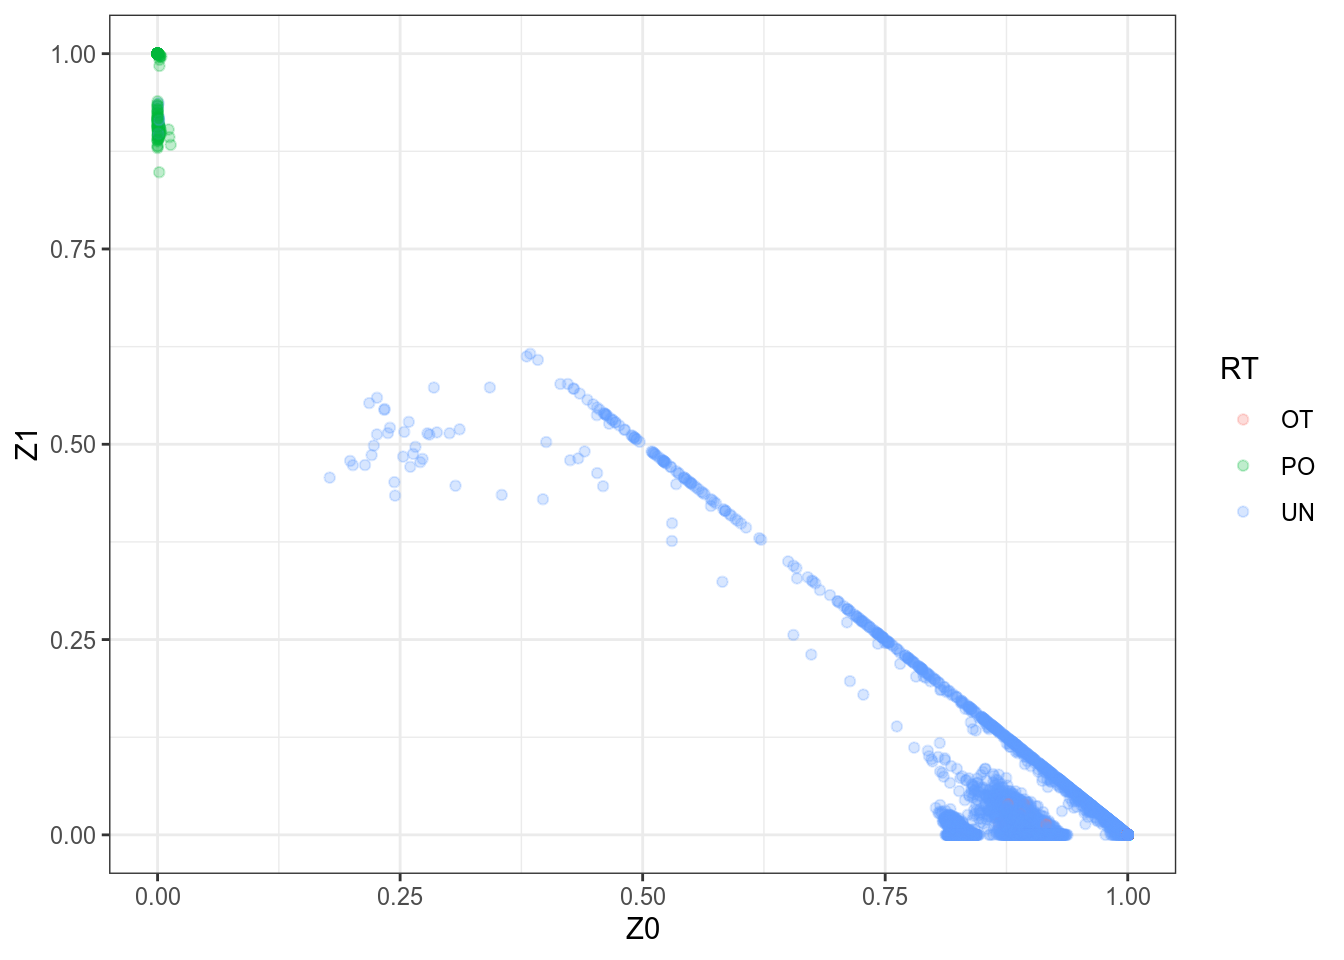
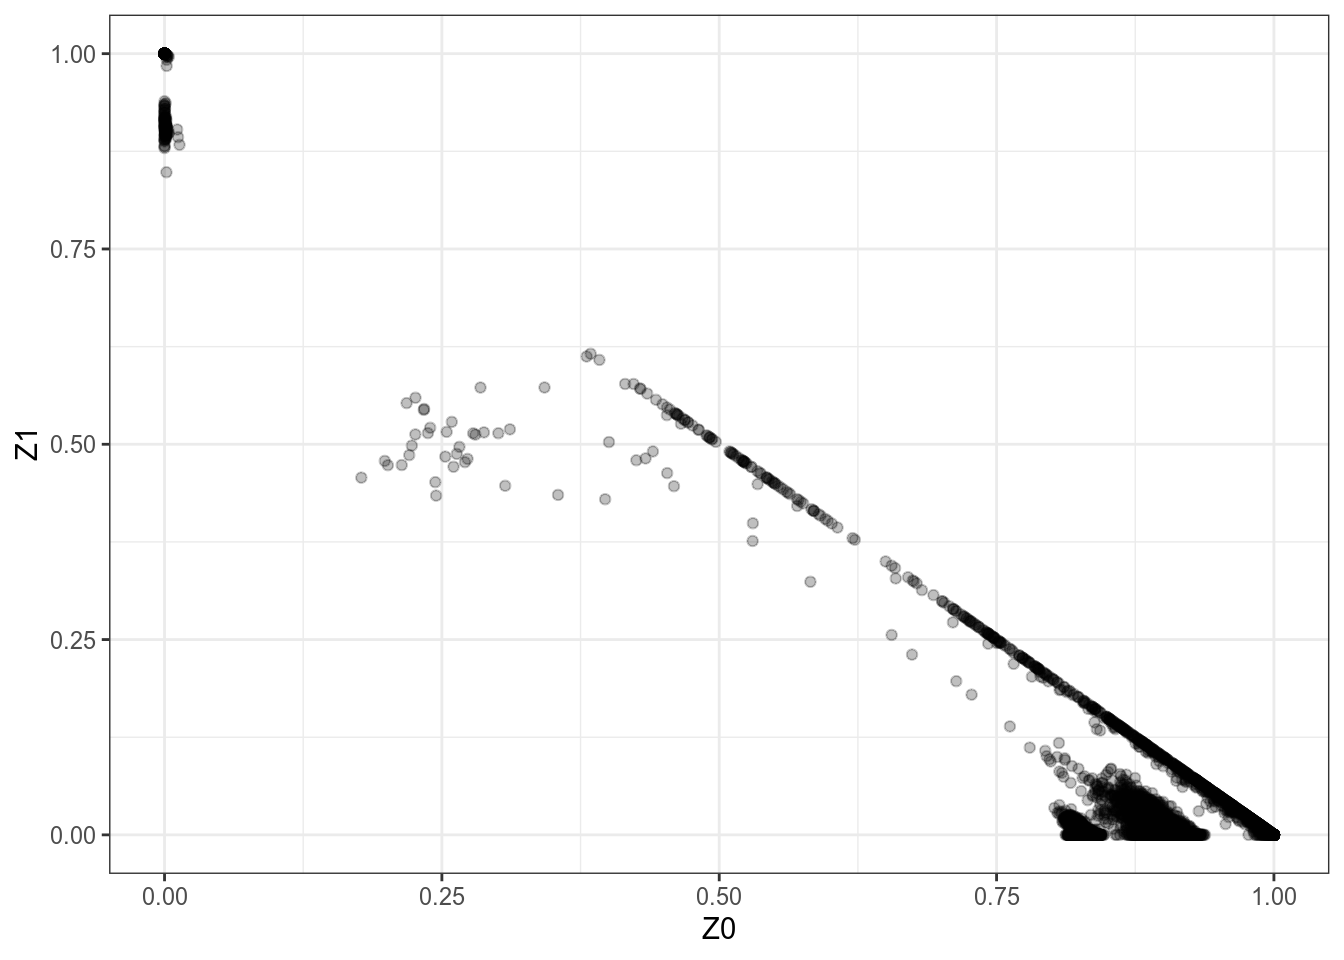
Build site.

diff --git a/docs/relatedness-filtering.html b/docs/relatedness-filtering.html
@@ -413,7 +413,7 @@ div.tocify {
 <div class="tab-content">
 <div id="summary" class="tab-pane fade in active">
 <p>
-<strong>Last updated:</strong> 2020-11-17
+<strong>Last updated:</strong> 2020-12-13
 </p>
 <p>
 <strong>Checks:</strong> <span class="glyphicon glyphicon-ok text-success" aria-hidden="true"></span> 7 <span class="glyphicon glyphicon-exclamation-sign text-danger" aria-hidden="true"></span> 0
@@ -504,16 +504,16 @@ This reproducible <a href="http://rmarkdown.rstudio.com">R Markdown</a> analysis
 <div class="panel panel-default">
 <div class="panel-heading">
 <p class="panel-title">
-<a data-toggle="collapse" data-parent="#workflowr-checks" href="#strongRepositoryversionstrongahrefhttpsgithubcomhwittichGWASQCtreead5a512aba99c8b56acaeac84f726f0d7579edadtargetblankad5a512a"> <span class="glyphicon glyphicon-ok text-success" aria-hidden="true"></span> <strong>Repository version:</strong> <a href="https://github.com/hwittich/GWAS_QC/tree/ad5a512aba99c8b56acaeac84f726f0d7579edad" target="_blank">ad5a512</a> </a>
+<a data-toggle="collapse" data-parent="#workflowr-checks" href="#strongRepositoryversionstrongahrefhttpsgithubcomhwittichGWASQCtree72f56c0dadaccdf3edcce8a78d6628963577f392targetblank72f56c0a"> <span class="glyphicon glyphicon-ok text-success" aria-hidden="true"></span> <strong>Repository version:</strong> <a href="https://github.com/hwittich/GWAS_QC/tree/72f56c0dadaccdf3edcce8a78d6628963577f392" target="_blank">72f56c0</a> </a>
 </p>
 </div>
[2 lines of base64/hex data omitted]
 <div class="panel-body">
 <p>
 Great! You are using Git for version control. Tracking code development and connecting the code version to the results is critical for reproducibility.
 </p>
 <p>
-The results in this page were generated with repository version <a href="https://github.com/hwittich/GWAS_QC/tree/ad5a512aba99c8b56acaeac84f726f0d7579edad" target="_blank">ad5a512</a>. See the <em>Past versions</em> tab to see a history of the changes made to the R Markdown and HTML files.
+The results in this page were generated with repository version <a href="https://github.com/hwittich/GWAS_QC/tree/72f56c0dadaccdf3edcce8a78d6628963577f392" target="_blank">72f56c0</a>. See the <em>Past versions</em> tab to see a history of the changes made to the R Markdown and HTML files.
 </p>
 <p>
 Note that you need to be careful to ensure that all relevant files for the analysis have been committed to Git prior to generating the results (you can use <code>wflow_publish</code> or <code>wflow_git_commit</code>). workflowr only checks the R Markdown file, but you know if there are other scripts or data files that it depends on. Below is the status of the Git repository when the results were generated:
@@ -522,6 +522,7 @@ Note that you need to be careful to ensure that all relevant files for the analy
 Ignored files:
     Ignored:    .Rhistory
     Ignored:    .Rproj.user/
+    Ignored:    analysis/figure/
 
 </code></pre>
 <p>
@@ -560,6 +561,40 @@ Message
 </tr>
 </thead>
 <tbody>
+<tr>
+<td>
+Rmd
+</td>
+<td>
+<a href="https://github.com/hwittich/GWAS_QC/blob/72f56c0dadaccdf3edcce8a78d6628963577f392/analysis/relatedness-filtering.Rmd" target="_blank">72f56c0</a>
+</td>
+<td>
+Henry Wittich
+</td>
+<td>
+2020-12-13
+</td>
+<td>
+Created IBD plots for each population group
+</td>
+</tr>
+<tr>
+<td>
+html
+</td>
+<td>
+<a href="https://rawcdn.githack.com/hwittich/GWAS_QC/af6a2e6a71991d9a849891b43edc2a5eaaae3106/docs/relatedness-filtering.html" target="_blank">af6a2e6</a>
+</td>
+<td>
+Henry Wittich
+</td>
+<td>
+2020-11-17
+</td>
+<td>
+Build site.
+</td>
+</tr>
 <tr>
 <td>
 Rmd
@@ -660,7 +695,7 @@ Starting the relatedness filtering step
 <h1>1 Create a pruned list of SNP IDs</h1>
 <p>Given the size of our dataset, calculating % identity by descent between every individual in the dataset using every SNP would be time-consuming and ultimately inefficient. According to Turner et al., a “dataset only 100,000 markers will yield stable estimates of kinship coefficients.” Furthermore, the IBD calculation assumes there is no LD. In this first step of relatedness filtering, we will generate a pruned set of SNPs that are in linkage equilibrium. This serves two purpose: first, it creates a smaller set up SNPs to calculate IBD with, and it also sets us up for LD pruning.</p>
 <pre><code>plink --bed ~/gwasqc/output/11-8-2020/missingness_hwe_steps/05filtered_HWE.bed --bim ~/gwasqc/output/11-8-2020/missingness_hwe_steps/05filtered_HWE.bim --fam ~/gwasqc/output/11-8-2020/missingness_hwe_steps/05filtered_HWE.fam --indep-pairwise 50 5 0.3 --out ~/gwasqc/output/11-16-2020/relatedness_steps/01LD_prune_list</code></pre>
-<p>This command uses the HWE filtered list of SNPs and prunes them by linkage disequilibirum. the –indep-pairwise flag takes three parameters: the window size, the step size, and the r^2 threshold. In this case, plink looks at 50 variants at a time, moving through the dataset 5 variants at a time, and calculates the squared correlation between pairs of variants; if a pair of variants has an r^2 higher than the threshold, they are pruned from the window. In other words, for all SNPs in linkage disequilibrium with each other, all but one are pruned out of the dataset. SNPs that are in linkage equilibirum with each other are written to the prune.in file while those that are excluded are written to the prune.out file:<br />
+<p>This command uses the HWE filtered list of SNPs and prunes them by linkage disequilibirum. the –indep-pairwise flag takes three parameters: the window size, the step size, and the r^2 threshold. In this case, plink looks at 50 variants at a time and calculates the squared correlation between pairs of variants; if a pair of variants has an r^2 higher than the threshold, they are pruned from the window. Plonk then shifts the window by 5 variants and repeats the calculations. In other words, for all SNPs in linkage disequilibrium with each other, all but one are pruned out of the dataset. SNPs that are in linkage equilibirum with each other are written to the prune.in file while those that are excluded are written to the prune.out file:<br />
 – 01LD_prune_list.log<br />
 – 01LD_prune_list.prune.in<br />
 – 01LD_prune_list.prune.out</p>
@@ -672,17 +707,182 @@ Starting the relatedness filtering step
 <p>Producing the following output files:<br />
 – 02relatedness.genome.log<br />
 – 02relatedness.genome.genome<br />
-First, the –extract flag uses the list of SNP IDs generated in step one to pull all SNPs that are in linkage equilibirum out of the bed/bim/fam files. The –genome flag performs an IBD calculation for each unique pair of individuals in the dataset. This calculation produces the Z0, Z1, and Z2 estimates, which represent the proportion of loci where the two individuals share zero, one, or two alleles identical by descent. These values can be used to infer the relationship between the two individuals: <img src="assets/IBD_relationships.png" alt="Possible relationships" /> Thus, by plotting the Z0 versus Z1 for every pair of individuals, we get a good snapshot of the relationships in our sample population. This is called an IBD plot. Here is the IBD plot for all individuals in the dataset.</p>
+First, the –extract flag uses the list of SNP IDs generated in step one to pull all SNPs that are in linkage equilibirum out of the bed/bim/fam files. The –genome flag performs an IBD calculation for each unique pair of individuals in the dataset. This calculation produces the Z0, Z1, and Z2 estimates, which represent the proportion of loci where the two individuals share zero, one, or two alleles identical by descent. These values can be used to infer the relationship between the two individuals: <img src="assets/IBD_relationships.png" alt="Possible relationships" /></p>
+<p>Thus, by plotting the Z0 versus Z1 for every pair of individuals, we get a good snapshot of the relationships in our sample population. This is called an IBD plot. Here is the IBD plot for all individuals in the dataset.</p>
 <pre class="r"><code>library(&quot;ggplot2&quot;)
 ibd &lt;- read.table(&quot;~/mount/gwasqc/output/11-16-2020/relatedness_steps/02relatedness.genome.genome&quot;,header=T)
-#Color code each point by the relationship type given the fam and ped filefile
-ggplot(data=ibd,aes(x=Z0,y=Z1,color=RT))+geom_point(alpha=1/4)+theme_bw()</code></pre>
-<p><img src="figure/relatedness-filtering.Rmd/unnamed-chunk-1-1.png" width="672" style="display: block; margin: auto;" /> The relationship codes are as follows:<br />
-FS: full siblings<br />
-HS: half siblings<br />
-PO: parent-offspring<br />
-OT: other<br />
-UN: ?? (not stated in plink documentation, presumably is unrelated?)</p>
+ggplot(data=ibd,aes(x=Z0,y=Z1))+geom_point(alpha=1/4)+theme_bw()</code></pre>
+<p><img src="figure/relatedness-filtering.Rmd/unnamed-chunk-1-1.png" width="672" style="display: block; margin: auto;" /></p>
+<p>
+<button type="button" class="btn btn-default btn-xs btn-workflowr btn-workflowr-fig" data-toggle="collapse" data-target="#fig-unnamed-chunk-1-1">
+Past versions of unnamed-chunk-1-1.png
+</button>
+</p>
+<div id="fig-unnamed-chunk-1-1" class="collapse">
+<div class="table-responsive">
+<table class="table table-condensed table-hover">
+<thead>
+<tr>
+<th>
+Version
+</th>
+<th>
+Author
+</th>
+<th>
+Date
+</th>
+</tr>
+</thead>
+<tbody>
+<tr>
+<td>
+<a href="https://github.com/hwittich/GWAS_QC/blob/af6a2e6a71991d9a849891b43edc2a5eaaae3106/docs/figure/relatedness-filtering.Rmd/unnamed-chunk-1-1.png" target="_blank">af6a2e6</a>
+</td>
+<td>
+Henry Wittich
+</td>
+<td>
+2020-11-17
+</td>
+</tr>
+</tbody>
+</table>
+</div>
+</div>
+<p>Looking at the plot, it is clear that there are a few parent-child relationships in the dataset, as well as several siblings and cousins. Looking at the bottom right corner of the plot, there is a strange-looking gap in the cluster of non-related pairs. It is possible this is the result of the HapMap3 dataset being comprised of several populations from geographically distinct locations, resulting in strange relatedness estimates.</p>
+</div>
+<div id="ibd-separated-by-population" class="section level1">
+<h1>3 IBD separated by population</h1>
+<p>We are working with HapMap 3 data, which contains 1,301 samples from 11 different populations. The phase_3_samples.doc <a href="ftp://ftp.ncbi.nlm.nih.gov/hapmap/genotypes/hapmap3/plink_format/draft_2">stored with the HapMap data</a> lists the 11 populations and their corresponding 3-character labels, which are used in the relationships_w_pops_121708.txt file to identify samples by their population. For our purposes, we will group these 11 populations in 6 main groups:<br />
+– African: ASW, LWK, MKK, and YRI<br />
+– East Asian: CHB, CHD, and JPT<br />
+– Northwestern European: CEU<br />
+– Gujarati Indian: GIH<br />
+– Mexican: MEX<br />
+– Toscan: TSI</p>
+<div id="extracting-sample-ids-by-population" class="section level2">
+<h2>Extracting sample IDs by population</h2>
+<p>Next, we must create a list of sample IDs for each of the 6 population groups that we can use to pull out their data and generate IBD plots. We can accomplish this with the UNIX grep command:</p>
+<pre><code>#Pulling out all samples from the Gujarati Indian population
+grep &quot;GIH&quot; relationships_w_pops_121708.txt &gt; ~/gwasqc/output/12-13-2020/separating_populations/gujarati_indian_IDs.txt</code></pre>
+<p>The grep function takes 2 inputs: a string to search for and a file to search through. It searches through the file line by line and returns every line that contains the string. The “&gt;” character writes grep’s output to the file specified. With this command, I pulled out all of the samples in the dataset from the Gujarati Indian population and wrote their IDs to the file gujarati_indian_IDs.txt.</p>
+<p>Let’s do the same for every other population group:</p>
+<pre><code>#Pulling out all samples from African populations
+#When searching for multiple terms, the syntax is as follows: &#39;word1\|word2&#39;
+grep &#39;ASW\|LWK\|MKK\|YRI&#39; relationships_w_pops_121708.txt &gt; ~/gwasqc/output/12-13-2020/separating_populations/african_IDs.txt
+
+#Pulling out all samples from East Asian populations
+grep &#39;CHB\|CHD\|JPT&#39; relationships_w_pops_121708.txt &gt; ~/gwasqc/output/12-13-2020/separating_populations/east_asian_IDs.txt
+
+#Pulling out all samples from the Northwestern European population
+grep &quot;CEU&quot; relationships_w_pops_121708.txt &gt; ~/gwasqc/output/12-13-2020/separating_populations/northwestern_european_IDs.txt
+
+#Pulling out all samples from the Mexican population
+grep &quot;MEX&quot; relationships_w_pops_121708.txt &gt; ~/gwasqc/output/12-13-2020/separating_populations/mexican_IDs.txt
+
+#Pulling out all samples from the Toscan population
+grep &quot;TSI&quot; relationships_w_pops_121708.txt &gt; ~/gwasqc/output/12-13-2020/separating_populations/toscan_IDs.txt</code></pre>
+</div>
+<div id="creating-new-bfiles-by-population" class="section level2">
+<h2>Creating new bfiles by population</h2>
+<p>Using these lists of IDs, we can then extract the data for each sample and generate new bfiles, separated by population. Using the –keep and –make-bed plink commands, we can use our missingness- and hwe-filtered bfiles to make new bfiles that only keep individuals from the same population group.</p>
+<pre><code>#Generating Gujarati Indian bfiles
+plink --bfile ~/gwasqc/output/11-8-2020/missingness_hwe_steps/05filtered_HWE --keep ~/gwasqc/output/12-13-2020/separating_populations/gujarati_indian_IDs.txt --make-bed --out ~/gwasqc/output/12-13-2020/separating_populations/05gujarati_indian_filtered_HWE
+
+#Generating African bfiles
+plink --bfile ~/gwasqc/output/11-8-2020/missingness_hwe_steps/05filtered_HWE --keep ~/gwasqc/output/12-13-2020/separating_populations/african_IDs.txt --make-bed --out ~/gwasqc/output/12-13-2020/separating_populations/05african_filtered_HWE
+
+#Generating East Asian bfiles
+plink --bfile ~/gwasqc/output/11-8-2020/missingness_hwe_steps/05filtered_HWE --keep ~/gwasqc/output/12-13-2020/separating_populations/east_asian_IDs.txt --make-bed --out ~/gwasqc/output/12-13-2020/separating_populations/05east_asian_filtered_HWE
+
+#Generating Northwestern European bfiles
+plink --bfile ~/gwasqc/output/11-8-2020/missingness_hwe_steps/05filtered_HWE --keep ~/gwasqc/output/12-13-2020/separating_populations/northwestern_european_IDs.txt --make-bed --out ~/gwasqc/output/12-13-2020/separating_populations/05northwestern_european_filtered_HWE
+
+#Generating Mexican bfiles
+plink --bfile ~/gwasqc/output/11-8-2020/missingness_hwe_steps/05filtered_HWE --keep ~/gwasqc/output/12-13-2020/separating_populations/mexican_IDs.txt --make-bed --out ~/gwasqc/output/12-13-2020/separating_populations/05mexican_filtered_HWE
+
+#Generating Toscan bfiles
+plink --bfile ~/gwasqc/output/11-8-2020/missingness_hwe_steps/05filtered_HWE --keep ~/gwasqc/output/12-13-2020/separating_populations/toscan_IDs.txt --make-bed --out ~/gwasqc/output/12-13-2020/separating_populations/05toscan_filtered_HWE</code></pre>
+</div>
+<div id="ld-pruning-ibd-calculation-and-ibd-plots-by-population" class="section level2">
+<h2>LD pruning, IBD calculation, and IBD plots by population</h2>
+<div id="gujarati-indian" class="section level3">
+<h3>Gujarati Indian</h3>
+<pre><code>#LD Pruning
+plink --bed ~/gwasqc/output/12-13-2020/separating_populations/05gujarati_indian_filtered_HWE.bed --bim ~/gwasqc/output/12-13-2020/separating_populations/05gujarati_indian_filtered_HWE.bim --fam ~/gwasqc/output/12-13-2020/separating_populations/05gujarati_indian_filtered_HWE.fam --indep-pairwise 50 5 0.3 --out ~/gwasqc/output/12-13-2020/relatedness_steps/01gujarati_indian_LD_prune_list
+
+#IBD Calculation
+plink --bed ~/gwasqc/output/12-13-2020/separating_populations/05gujarati_indian_filtered_HWE.bed --bim ~/gwasqc/output/12-13-2020/separating_populations/05gujarati_indian_filtered_HWE.bim --fam ~/gwasqc/output/12-13-2020/separating_populations/05gujarati_indian_filtered_HWE.fam --extract ~/gwasqc/output/12-13-2020/relatedness_steps/01gujarati_indian_LD_prune_list.prune.in --genome --out ~/gwasqc/output/12-13-2020/relatedness_steps/02gujarati_indian_relatedness</code></pre>
+<pre class="r"><code>#Generating IBD Plot
+gujarati_indian_ibd &lt;- read.table(&quot;~/mount/gwasqc/output/12-13-2020/relatedness_steps/02gujarati_indian_relatedness.genome&quot;,header=T)
+ggplot(data=gujarati_indian_ibd,aes(x=Z0,y=Z1))+geom_point(alpha=1/4)+theme_bw()+xlim(0,1)+ylim(0,1)</code></pre>
+<p><img src="figure/relatedness-filtering.Rmd/unnamed-chunk-2-1.png" width="672" style="display: block; margin: auto;" /></p>
+</div>
+<div id="african" class="section level3">
+<h3>African</h3>
+<pre><code>#LD Pruning
+plink --bed ~/gwasqc/output/12-13-2020/separating_populations/05african_filtered_HWE.bed --bim ~/gwasqc/output/12-13-2020/separating_populations/05african_filtered_HWE.bim --fam ~/gwasqc/output/12-13-2020/separating_populations/05african_filtered_HWE.fam --indep-pairwise 50 5 0.3 --out ~/gwasqc/output/12-13-2020/relatedness_steps/01african_LD_prune_list
+
+#IBD Calculation
+plink --bed ~/gwasqc/output/12-13-2020/separating_populations/05african_filtered_HWE.bed --bim ~/gwasqc/output/12-13-2020/separating_populations/05african_filtered_HWE.bim --fam ~/gwasqc/output/12-13-2020/separating_populations/05african_filtered_HWE.fam --extract ~/gwasqc/output/12-13-2020/relatedness_steps/01african_LD_prune_list.prune.in --genome --out ~/gwasqc/output/12-13-2020/relatedness_steps/02african_relatedness</code></pre>
+<pre class="r"><code>#Generating IBD Plot
+african_ibd &lt;- read.table(&quot;~/mount/gwasqc/output/12-13-2020/relatedness_steps/02african_relatedness.genome&quot;,header=T)
+ggplot(data=african_ibd,aes(x=Z0,y=Z1))+geom_point(alpha=1/4)+theme_bw()+xlim(0,1)+ylim(0,1)</code></pre>
+<p><img src="figure/relatedness-filtering.Rmd/unnamed-chunk-3-1.png" width="672" style="display: block; margin: auto;" /></p>
+</div>
+<div id="east-asian" class="section level3">
+<h3>East Asian</h3>
+<pre><code>#LD Pruning
+plink --bed ~/gwasqc/output/12-13-2020/separating_populations/05east_asian_filtered_HWE.bed --bim ~/gwasqc/output/12-13-2020/separating_populations/05east_asian_filtered_HWE.bim --fam ~/gwasqc/output/12-13-2020/separating_populations/05east_asian_filtered_HWE.fam --indep-pairwise 50 5 0.3 --out ~/gwasqc/output/12-13-2020/relatedness_steps/01east_asian_LD_prune_list
+
+#IBD Calculation
+plink --bed ~/gwasqc/output/12-13-2020/separating_populations/05east_asian_filtered_HWE.bed --bim ~/gwasqc/output/12-13-2020/separating_populations/05east_asian_filtered_HWE.bim --fam ~/gwasqc/output/12-13-2020/separating_populations/05east_asian_filtered_HWE.fam --extract ~/gwasqc/output/12-13-2020/relatedness_steps/01east_asian_LD_prune_list.prune.in --genome --out ~/gwasqc/output/12-13-2020/relatedness_steps/02east_asian_relatedness</code></pre>
+<pre class="r"><code>#Generating IBD Plot
+east_asian_ibd &lt;- read.table(&quot;~/mount/gwasqc/output/12-13-2020/relatedness_steps/02east_asian_relatedness.genome&quot;,header=T)
+ggplot(data=east_asian_ibd,aes(x=Z0,y=Z1))+geom_point(alpha=1/4)+theme_bw()+xlim(0,1)+ylim(0,1)</code></pre>
+<p><img src="figure/relatedness-filtering.Rmd/unnamed-chunk-4-1.png" width="672" style="display: block; margin: auto;" /></p>
+</div>
+<div id="northwestern-european" class="section level3">
+<h3>Northwestern European</h3>
+<pre><code>#LD Pruning
+plink --bed ~/gwasqc/output/12-13-2020/separating_populations/05northwestern_european_filtered_HWE.bed --bim ~/gwasqc/output/12-13-2020/separating_populations/05northwestern_european_filtered_HWE.bim --fam ~/gwasqc/output/12-13-2020/separating_populations/05northwestern_european_filtered_HWE.fam --indep-pairwise 50 5 0.3 --out ~/gwasqc/output/12-13-2020/relatedness_steps/01northwestern_european_LD_prune_list
+
+#IBD Calculation
+plink --bed ~/gwasqc/output/12-13-2020/separating_populations/05northwestern_european_filtered_HWE.bed --bim ~/gwasqc/output/12-13-2020/separating_populations/05northwestern_european_filtered_HWE.bim --fam ~/gwasqc/output/12-13-2020/separating_populations/05northwestern_european_filtered_HWE.fam --extract ~/gwasqc/output/12-13-2020/relatedness_steps/01northwestern_european_LD_prune_list.prune.in --genome --out ~/gwasqc/output/12-13-2020/relatedness_steps/02northwestern_european_relatedness</code></pre>
+<pre class="r"><code>#Generating IBD Plot
+northwestern_european_ibd &lt;- read.table(&quot;~/mount/gwasqc/output/12-13-2020/relatedness_steps/02northwestern_european_relatedness.genome&quot;,header=T)
+ggplot(data=northwestern_european_ibd,aes(x=Z0,y=Z1))+geom_point(alpha=1/4)+theme_bw()+xlim(0,1)+ylim(0,1)</code></pre>
+<p><img src="figure/relatedness-filtering.Rmd/unnamed-chunk-5-1.png" width="672" style="display: block; margin: auto;" /></p>
+</div>
+<div id="mexican" class="section level3">
+<h3>Mexican</h3>
+<pre><code>#LD Pruning
+plink --bed ~/gwasqc/output/12-13-2020/separating_populations/05mexican_filtered_HWE.bed --bim ~/gwasqc/output/12-13-2020/separating_populations/05mexican_filtered_HWE.bim --fam ~/gwasqc/output/12-13-2020/separating_populations/05mexican_filtered_HWE.fam --indep-pairwise 50 5 0.3 --out ~/gwasqc/output/12-13-2020/relatedness_steps/01mexican_LD_prune_list
+
+#IBD Calculation
+plink --bed ~/gwasqc/output/12-13-2020/separating_populations/05mexican_filtered_HWE.bed --bim ~/gwasqc/output/12-13-2020/separating_populations/05mexican_filtered_HWE.bim --fam ~/gwasqc/output/12-13-2020/separating_populations/05mexican_filtered_HWE.fam --extract ~/gwasqc/output/12-13-2020/relatedness_steps/01mexican_LD_prune_list.prune.in --genome --out ~/gwasqc/output/12-13-2020/relatedness_steps/02mexican_relatedness</code></pre>
+<pre class="r"><code>#Generating IBD Plot
+mexican_ibd &lt;- read.table(&quot;~/mount/gwasqc/output/12-13-2020/relatedness_steps/02mexican_relatedness.genome&quot;,header=T)
+ggplot(data=mexican_ibd,aes(x=Z0,y=Z1))+geom_point(alpha=1/4)+theme_bw()+xlim(0,1)+ylim(0,1)</code></pre>
+<p><img src="figure/relatedness-filtering.Rmd/unnamed-chunk-6-1.png" width="672" style="display: block; margin: auto;" /></p>
+</div>
+<div id="toscan" class="section level3">
+<h3>Toscan</h3>
+<pre><code>#LD Pruning
+plink --bed ~/gwasqc/output/12-13-2020/separating_populations/05toscan_filtered_HWE.bed --bim ~/gwasqc/output/12-13-2020/separating_populations/05toscan_filtered_HWE.bim --fam ~/gwasqc/output/12-13-2020/separating_populations/05toscan_filtered_HWE.fam --indep-pairwise 50 5 0.3 --out ~/gwasqc/output/12-13-2020/relatedness_steps/01toscan_LD_prune_list
+
+#IBD Calculation
+plink --bed ~/gwasqc/output/12-13-2020/separating_populations/05toscan_filtered_HWE.bed --bim ~/gwasqc/output/12-13-2020/separating_populations/05toscan_filtered_HWE.bim --fam ~/gwasqc/output/12-13-2020/separating_populations/05toscan_filtered_HWE.fam --extract ~/gwasqc/output/12-13-2020/relatedness_steps/01toscan_LD_prune_list.prune.in --genome --out ~/gwasqc/output/12-13-2020/relatedness_steps/02toscan_relatedness</code></pre>
+<pre class="r"><code>#Generating IBD Plot
+toscan_ibd &lt;- read.table(&quot;~/mount/gwasqc/output/12-13-2020/relatedness_steps/02toscan_relatedness.genome&quot;,header=T)
+ggplot(data=toscan_ibd,aes(x=Z0,y=Z1))+geom_point(alpha=1/4)+theme_bw()+xlim(0,1)+ylim(0,1)</code></pre>
+<p><img src="figure/relatedness-filtering.Rmd/unnamed-chunk-7-1.png" width="672" style="display: block; margin: auto;" /></p>
+</div>
+</div>
+</div>
+<div id="check-the-heterozygosity-distribution-of-samples-and-the-existence-of-outlier-samples" class="section level1">
+<h1>4 Check the heterozygosity distribution of samples and the existence of outlier samples</h1>
 <br>
 <p>
 <button type="button" class="btn btn-default btn-workflowr btn-workflowr-sessioninfo" data-toggle="collapse" data-target="#workflowr-sessioninfo" style="display: block;">
